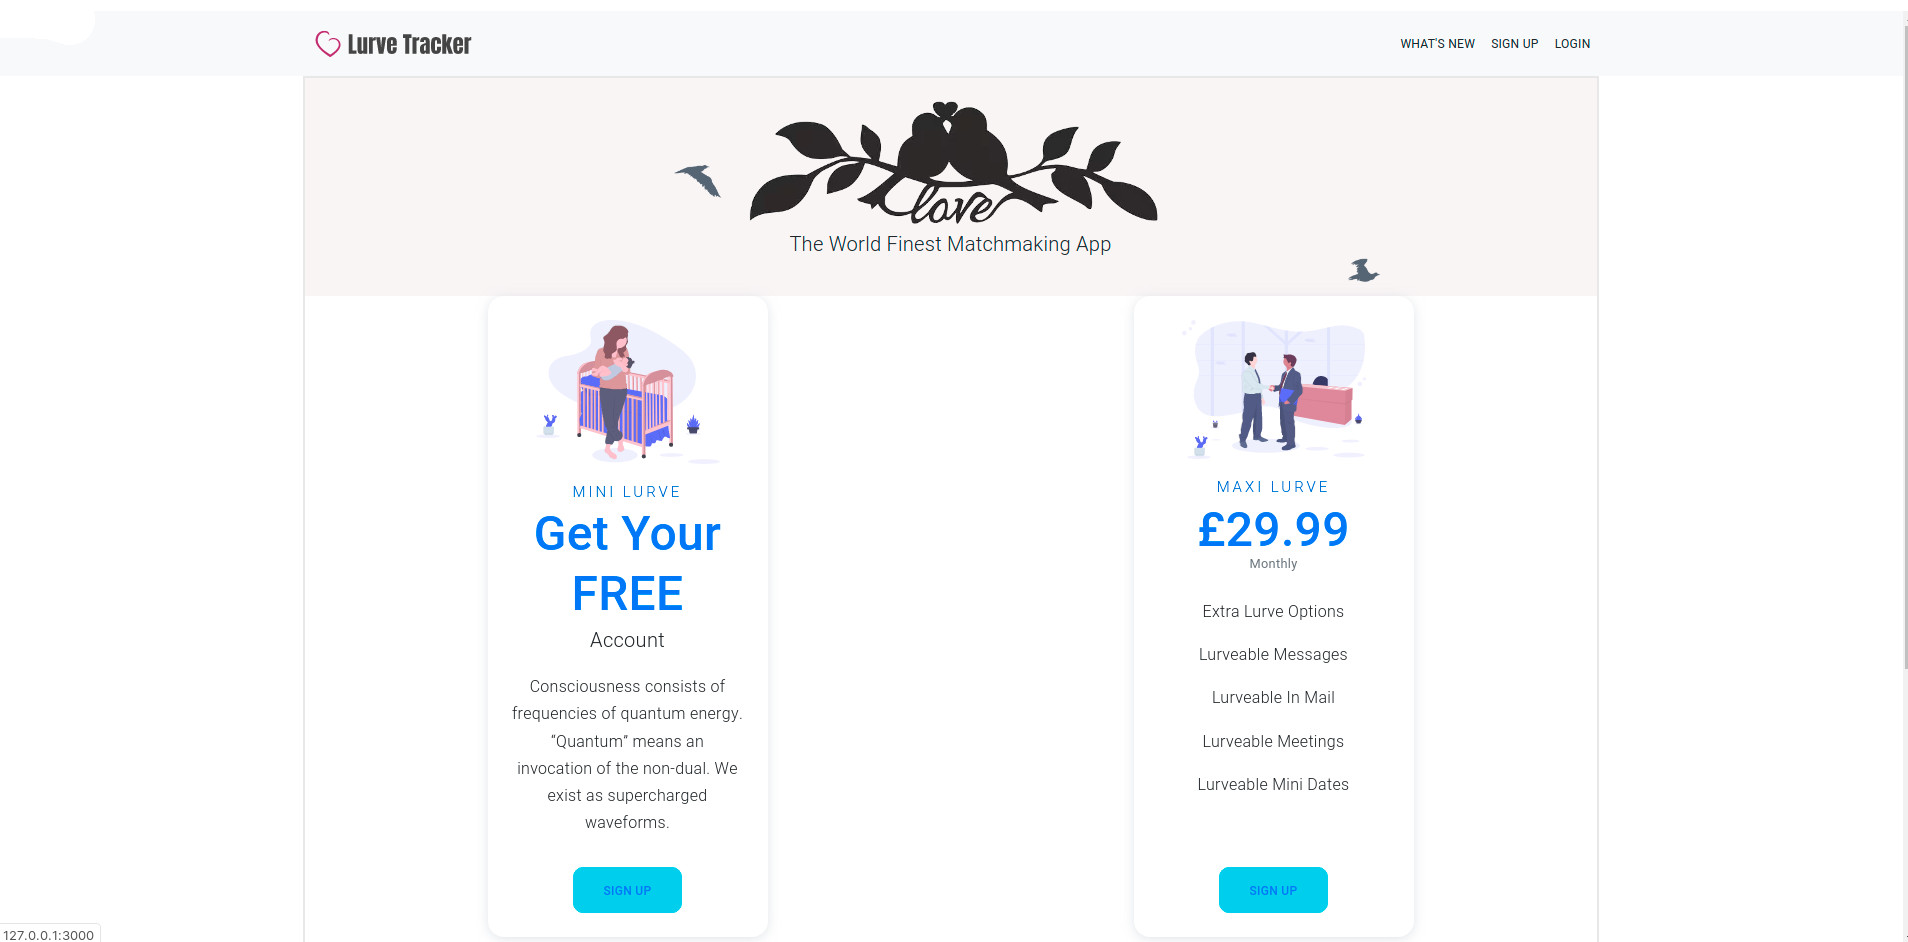
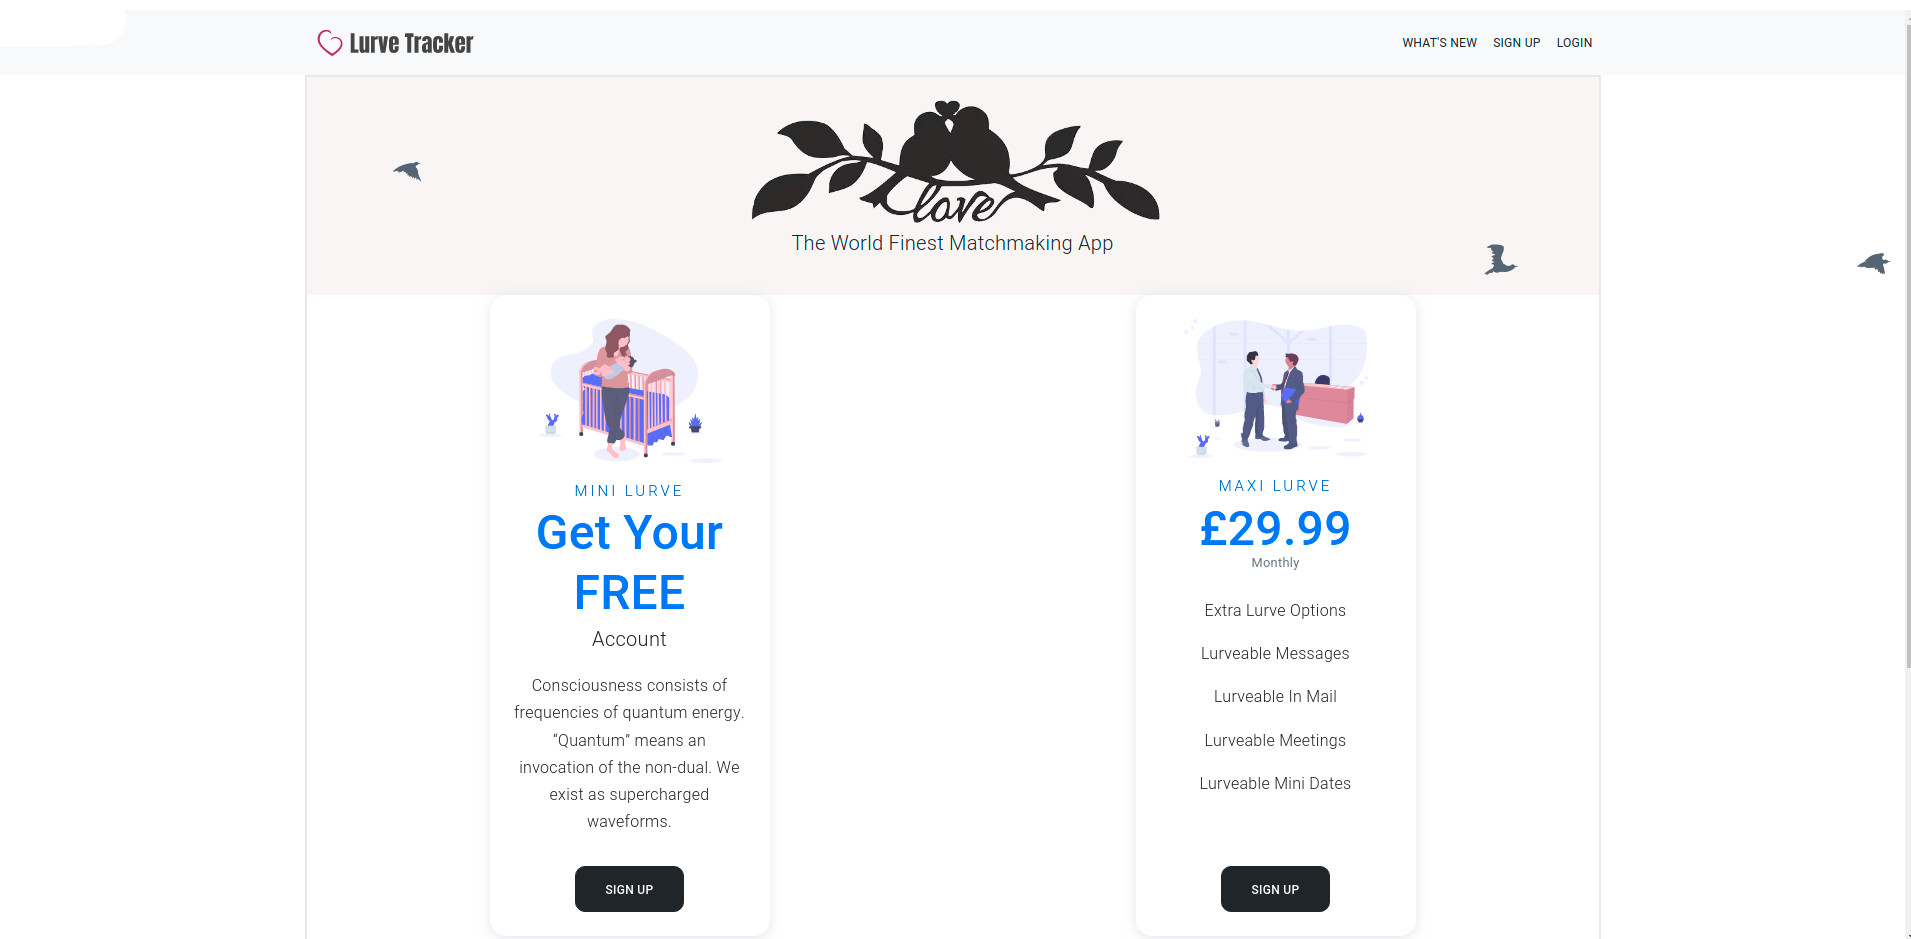
Buttons Style

diff --git a/app/assets/stylesheets/application.scss b/app/assets/stylesheets/application.scss
@@ -50,14 +50,27 @@ body > footer > div.container.p-4.pb-0 > section > p > span > a > img
   margin-bottom:30px;
   border: solid 2px #e8e8e8;
 }
-body > main > div > section > div.container > div > div:nth-child(3) > div > div.card-action > button > a,
-body > main > div > section > div.container > div > div:nth-child(2) > div > div.card-action > button > a {
-  color:white;
-}
+
+// FP Jumbotron
 .jumbotron {
   background: #f8f5f5;
   padding: 20px;
 }
+// FP Pricing buttons
+#pricing > div > div:nth-child(3) > div > div.card-action > button > a,
+#pricing > div > div:nth-child(2) > div > div.card-action > button > a {
+  color:white;
+
+}
+#pricing > div > div:nth-child(3) > div > div.card-action > button > a:hover,
+#pricing > div > div:nth-child(2) > div > div.card-action > button > a:hover {
+  text-decoration:none;
+}
+body > main > div > section > div.container > div > div:nth-child(3) > div > div.card-action > button > a,
+body > main > div > section > div.container > div > div:nth-child(2) > div > div.card-action > button > a {
+  color:white;
+}
+
 #slides {
   position: relative;
   height: 400px;
